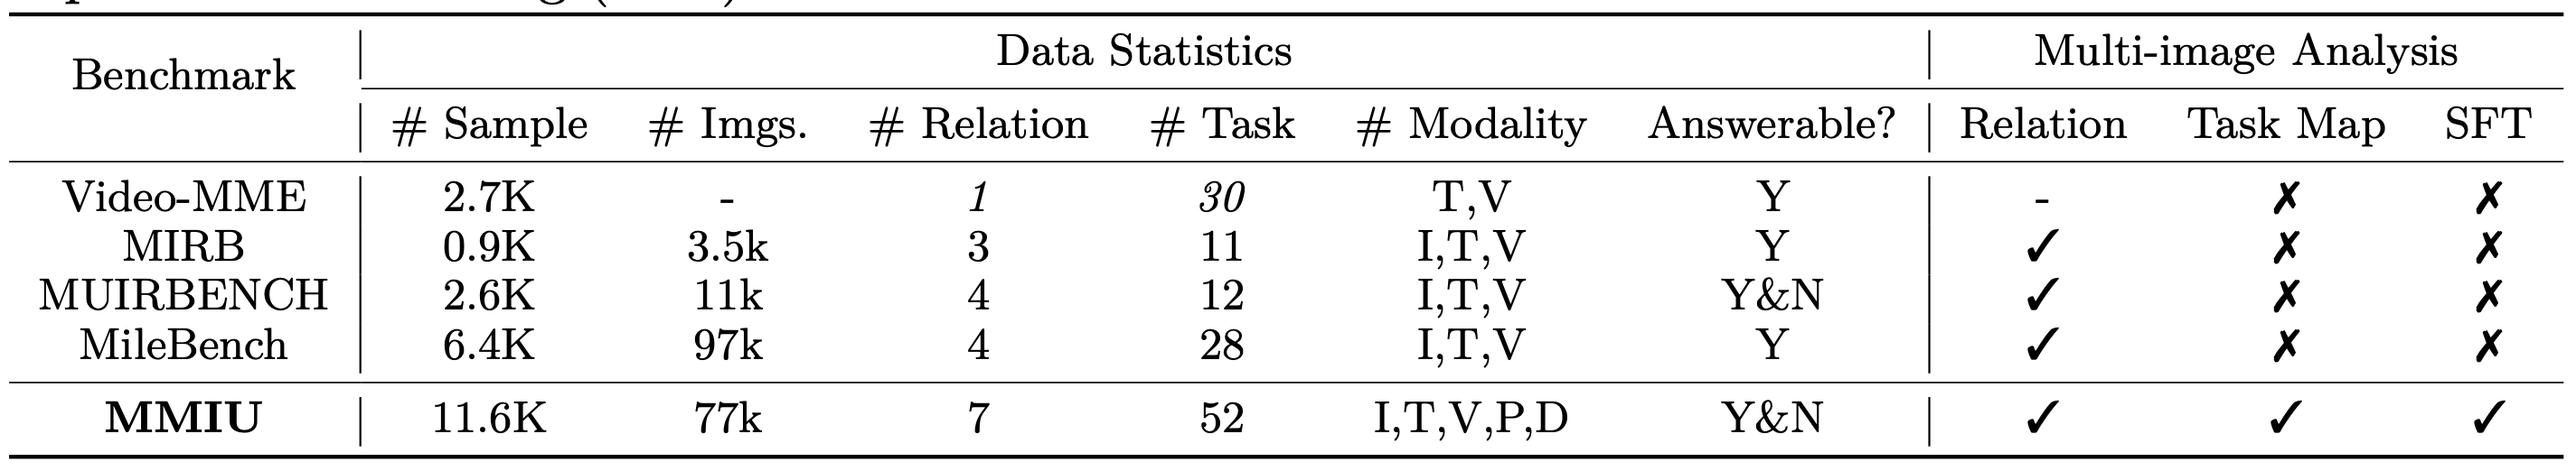
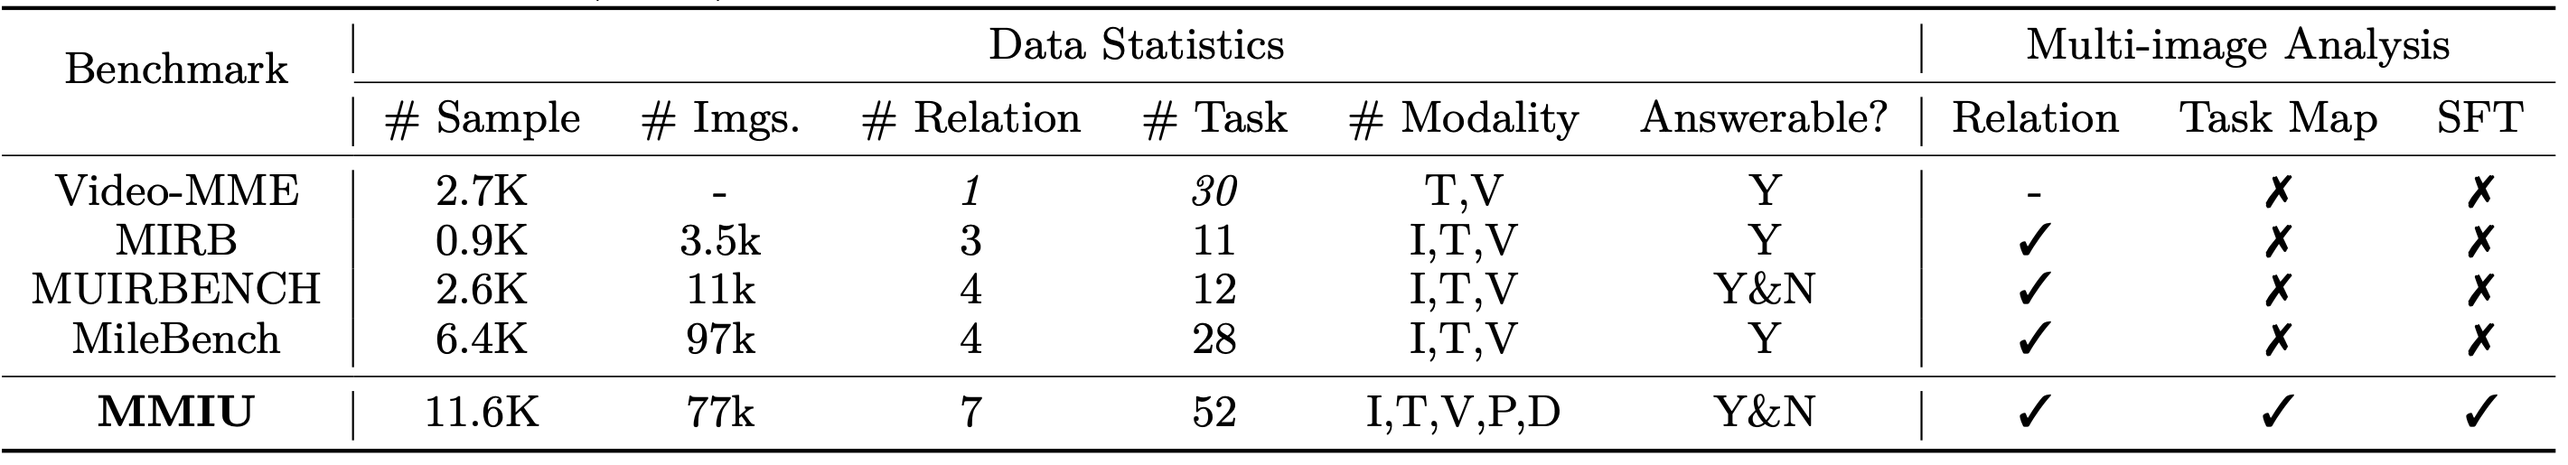
updates

diff --git a/index.html b/index.html
@@ -269,7 +269,7 @@
       <div class="column is-four-fifths">
         <h2 class="title is-3">Overview</h2>
         <div class="content has-text-justified">
-          <img src="static/images/MMeval_construct.jpg" alt="pipeline" class="center">
+          <img src="static/images/MMeval_construct.jpeg" alt="pipeline" class="center">
           <br>
           <p>
             An illustration of our data collection process. First, we refine multi-image tasks and collect task data based on cognitive psychology. Then, we standardize these datasets into a uniform format—metadata. Next, we generate multiple-choice samples with answerable and unanswerable questions from the metadata using either manually designed rules or GPT4o. Our benchmarks include capability evaluations across various image types.
@@ -2074,7 +2074,7 @@
         <div class="columns is-centered m-6">
           <div class="column is-full has-text-centered content">
                 <div class="content has-text-centered">
-                  <img src="static/images/meta.jpg" alt="Performance across Image Relationships" width="100%">
+                  <img src="static/images/meta.jpg" alt="Performance across Image Relationships" width="90%">
                   <p>
                     (a): The average performance comparison of 24 LVLMs on three main image relationships.
                     (b): The average performance comparison of representative models such as GPT4o on seven specific image relationships. </p>
@@ -2143,7 +2143,7 @@
             </p>
         </div>
         <div class="content has-text-centered">
-          <img src="static/images/Qwen_acc.jpg" alt="error distribution" width="60%">
+          <img src="static/images/Qwen_acc.jpeg" alt="error distribution" width="60%">
           <p> The performance of <span class="math inline"><em>A</em><em>c</em><em>c</em><sub>Model</sub></span> and <span class="math inline"><em>A</em><em>c</em><em>c</em><sub>SFT</sub></span> across different tasks, sorted by <span class="math inline"><em>A</em><em>c</em><em>c</em><sub>Model</sub></span> in descending order, with <span class="math inline"><em>A</em><em>c</em><em>c</em><sub>SFT</sub></span> scaled to the same magnitude as <span class="math inline"><em>A</em><em>c</em><em>c</em><sub>Model</sub></span> for easy comparison.</p>
         </div>
         <!-- <div id="results-carousel" class="carousel results-carousel">
